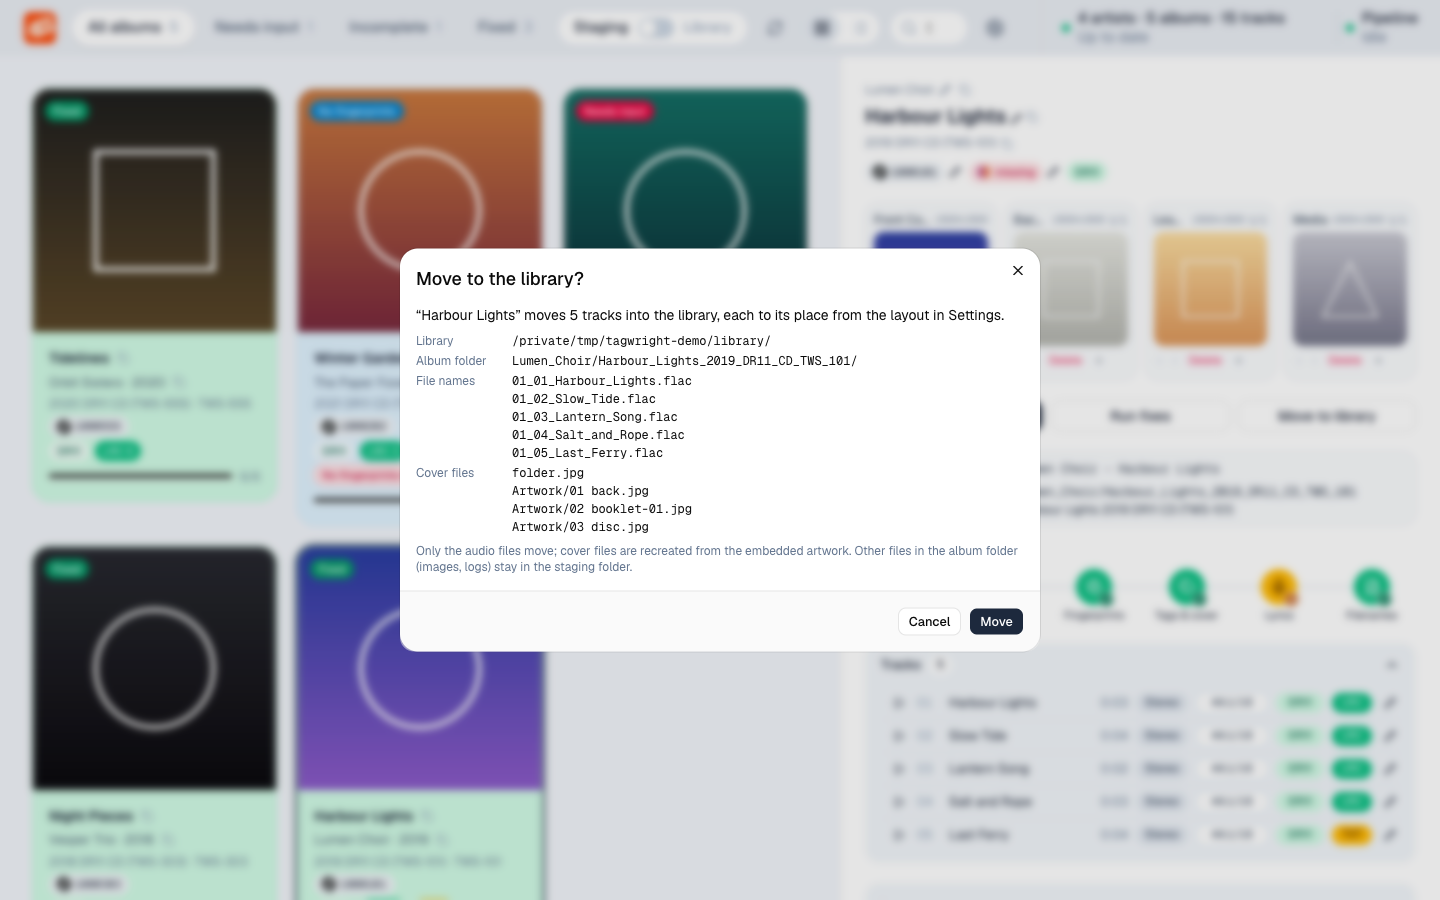
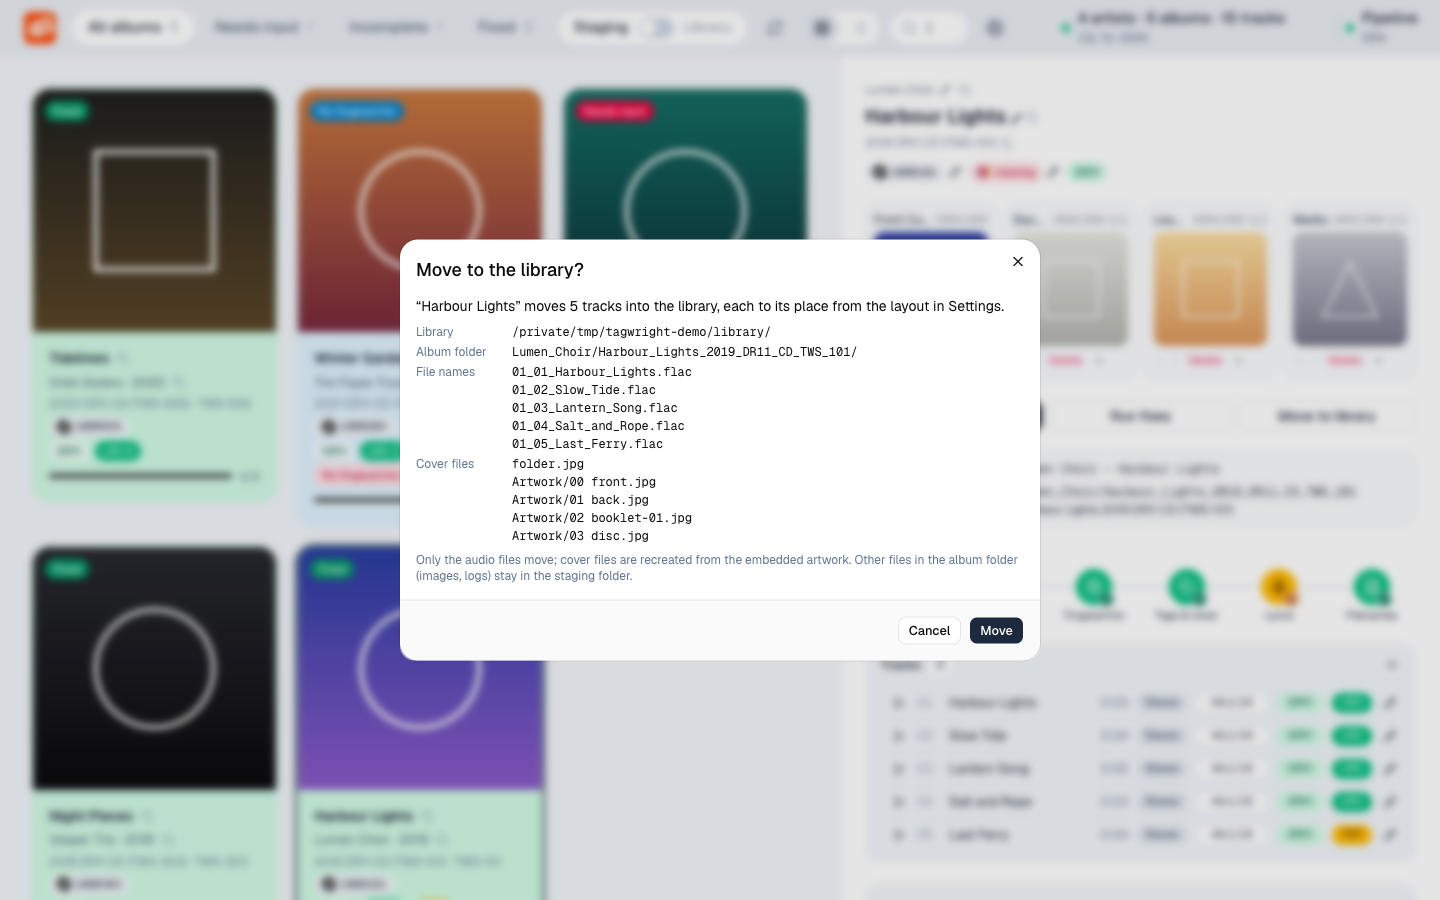
Release 0.7.0: changelog heading, README and screenshots
Why: the owner asked for a new minor release. ADR 0070 and 0071 require
the README and every screenshot to be current before the tag.

What: CHANGELOG `Unreleased` becomes `0.7.0 (2026-11-23)` (Changed:
Artwork/00 front.jpg and more rebuild triggers 0105, cover files for
albums already in the library 0104, empty folders and @eaDir 0103;
Fixed: following an album the watcher moves). README: the watcher
paragraph names the full-pass housekeeping and the following of a moved
album; the image tag example is :0.7 (the cover-file paragraph was
updated with 0105). All ten screenshots retaken; the move dialog now
lists Artwork/00 front.jpg, the library status shows the cover backfill
in its activity.

How checked: scratch instance under /tmp/tagwright-demo (invented
albums, generated audio and covers, no Discogs key), port 8795,
Playwright with the installed Chrome headless at 1440 x 900, console
clean on every page; looked at move.png and library-status.png. Not
verified: the Assign dialogs (need a key and live data), the published
image (built by the tag workflow).

ADRs: 0070, 0071.
macOS port: not affected (docs only).

Changed region(s): [[0.2812, 0.2489, 0.7188, 0.6533], [0.2812, 0.6533, 0.7188, 0.7467]]

diff --git a/README.md b/README.md
@@ -74,7 +74,7 @@ Tags Tagwright writes are never read back as input, tags owned by Discogs are re
 
 ## The library watcher
 
-A background watcher keeps the library folder in the layout. It notices changes without re-listing the whole share (it compares directory modification times), waits for a cooldown after the last change, and only then renames and moves. It never overwrites, removes only empty folders and obvious litter.
+A background watcher keeps the library folder in the layout. It notices changes without re-listing the whole share (it compares directory modification times), waits for a cooldown after the last change, and only then renames and moves. It never overwrites, removes only empty folders and obvious litter (`.DS_Store`, Synology's `@eaDir`). On every full pass (after a restart, daily, or with **Re-analyze**) it also removes empty folders left behind and writes the missing cover files of albums already in the library (ADR 0103, 0104). When it moves the album you have open, the inspector and an open Tag Editor follow it to the new folder.
 
 The top bar shows album artists, albums and tracks, and what the watcher is doing. Click it for recent activity and a manual **Re-analyze** button.
 
@@ -127,7 +127,7 @@ The program logs jobs, moves, renames, assignments, tag, lyrics and cover edits 
 
 ### Docker
 
-A published image (amd64 and arm64) is on GitHub's registry; each release also has its own tag (for example `:0.6`, [ADR 0070](docs/adr/0070-releases.md)):
+A published image (amd64 and arm64) is on GitHub's registry; each release also has its own tag (for example `:0.7`, [ADR 0070](docs/adr/0070-releases.md)):
 
 ```bash
 docker pull ghcr.io/koehntopp/tagwright:latest

diff --git a/CHANGELOG.md b/CHANGELOG.md
@@ -4,6 +4,8 @@ What changed for people who use Tagwright, newest first. Every functional change
 
 ## Unreleased
 
+## 0.7.0 (2026-11-23)
+
 ### Changed
 
 - The `Artwork/` folder of a library album also holds the front cover, as `00 front.jpg` (a copy of `folder.jpg`), so it has the whole set. The cover files are also rewritten after the cover a Discogs assignment adds and after Run fixes, not only after edits in the inspector [0105].
